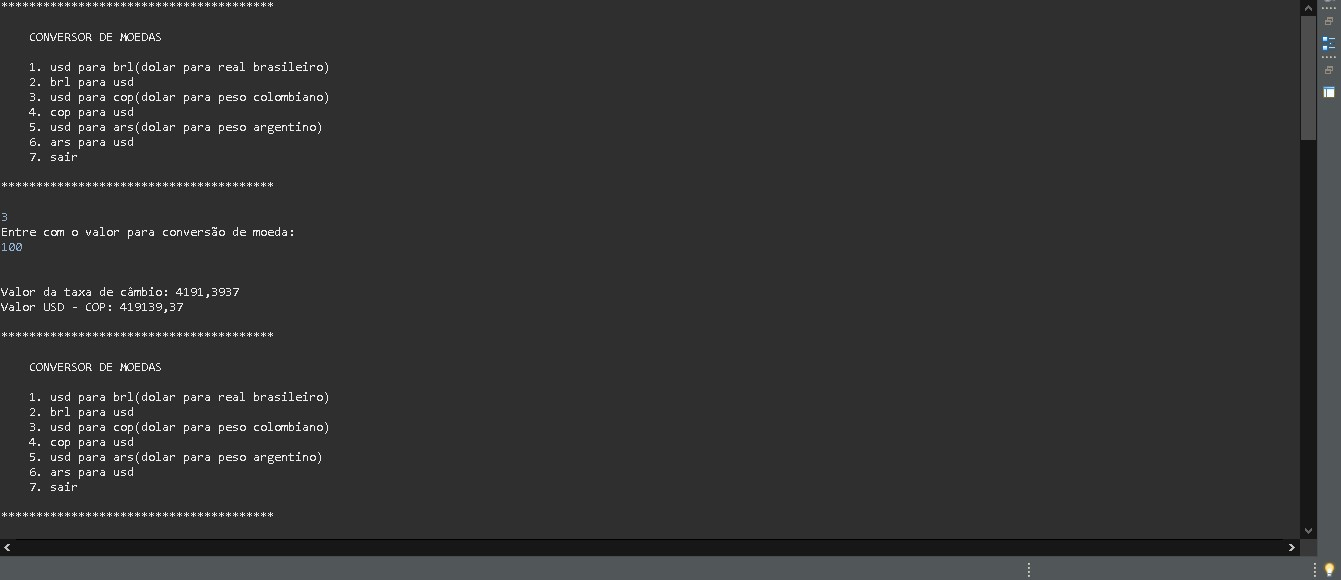
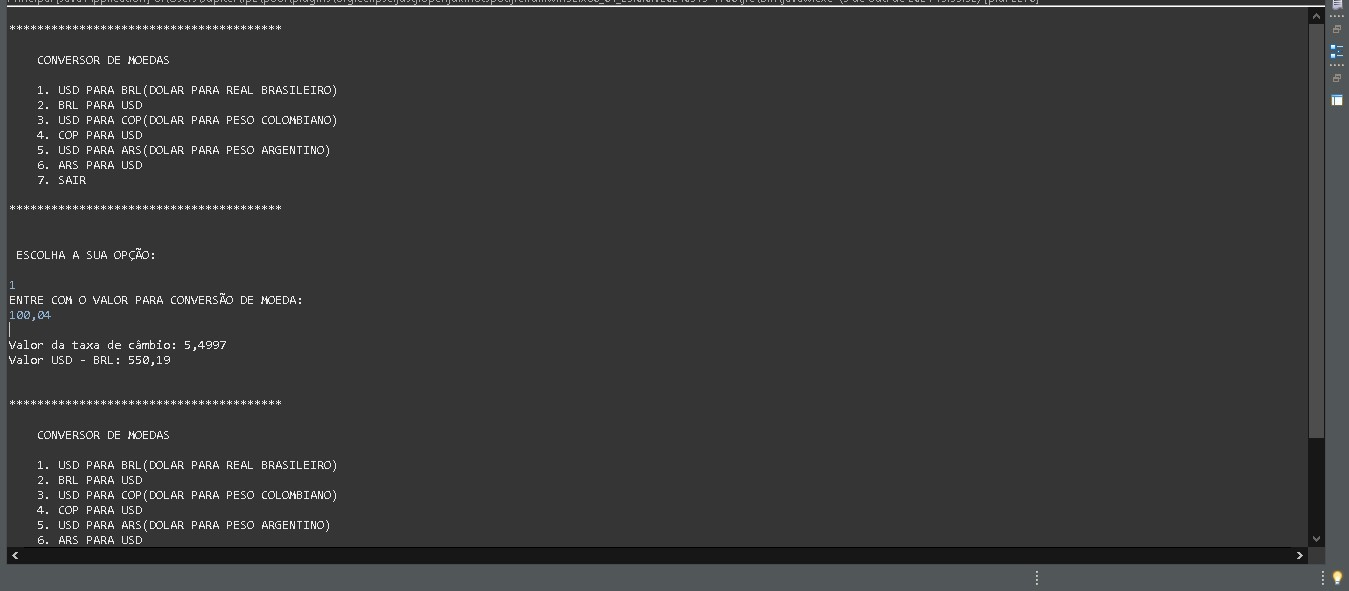
Atualização do projeto conversor de moedas

Changed region(s): [[0.0, 0.0, 1.0, 0.9621], [0.9478, 0.2483, 1.0, 0.7448], [0.9784, 0.9621, 1.0, 0.9931]]

diff --git a/projetosJava/com.samzubeli.ConversorDeMoedas/src/com/samzubeli/ConversorDeMoedas/principal/Principal.java b/projetosJava/com.samzubeli.ConversorDeMoedas/src/com/samzubeli/ConversorDeMoedas/principal/Principal.java
@@ -1,104 +1,91 @@
 package com.samzubeli.ConversorDeMoedas.principal;
 
-import java.util.Scanner;
-
 import com.samzubeli.ConversorDeMoedas.api.Conexao;
 import com.samzubeli.ConversorDeMoedas.api.Utilidades;
 
 public class Principal {
 
-	public static void main(String[] args) {
-		Scanner lerEntrada = new Scanner(System.in);
+	public static void main(String[] args) {	;
 		Conexao con = new Conexao();
 		Utilidades util = new Utilidades();
 		while (true) {
-			System.out.println("***************************************\n");
+			System.out.println("\n***************************************\n");
 			System.out.println("    conversor de moedas".toUpperCase());
 			System.out.println();
-			System.out.println("    1. usd para brl(dolar para real brasileiro)".toLowerCase());
-			System.out.println("    2. brl para usd".toLowerCase());
-			System.out.println("    3. usd para cop(dolar para peso colombiano)".toLowerCase());
-			System.out.println("    4. cop para usd".toLowerCase());
-			System.out.println("    5. usd para ars(dolar para peso argentino)".toLowerCase());
-			System.out.println("    6. ars para usd".toLowerCase());
-			System.out.println("    7. sair\n".toLowerCase());
-			System.out.println("***************************************\n");
-			int valor = lerEntrada.nextInt();
+			System.out.println("    1. usd para brl(dolar para real brasileiro)".toUpperCase());
+			System.out.println("    2. brl para usd".toUpperCase());
+			System.out.println("    3. usd para cop(dolar para peso colombiano)".toUpperCase());
+			System.out.println("    4. cop para usd".toUpperCase());
+			System.out.println("    5. usd para ars(dolar para peso argentino)".toUpperCase());
+			System.out.println("    6. ars para usd".toUpperCase());
+			System.out.println("    7. sair\n".toUpperCase());
+			System.out.println("***************************************\n");			
+			int valor = (int) util.entradaDeValores(false);			
 			if (valor == 7)
 				break;
-			if (util.verificarEntrada(valor))
-				System.out.println("\nsomente numeros entre 1 e 7\n".toUpperCase());
-			else {
-				String key = "";
-				String parMoedas = "";
-				double moeda = 0.0;
-				double taxaCambio = 0.0;
+			String key = "";
+			String parMoedas = "";
+			double moeda = 0.0;
+			double taxaCambio = 0.0;
 
-				switch (valor) {
+			switch (valor) {
 
-				case 1:
-					key = "YOUR-API-KEY/pair/USD/BRL";
-					parMoedas = " usd - brl: ".toUpperCase();
-					System.out.println("Entre com o valor para conversão de moeda: ");
-					moeda = lerEntrada.nextDouble();
-					taxaCambio = util.obterTaxaDeCambio(con, key);
-					moeda = moeda * taxaCambio;
-					util.imprimirValores(parMoedas, moeda, taxaCambio);
-					break;
+			case 1:
+				key = "6f7d444c2c79803d656753f8/pair/USD/BRL";
+				parMoedas = " usd - brl: ".toUpperCase();
+				moeda = util.entradaDeValores(true);				
+				taxaCambio = util.obterTaxaDeCambio(con, key);
+				moeda = moeda * taxaCambio;
+				util.imprimirValores(parMoedas, moeda, taxaCambio);
+				break;
 
-				case 2:
-					key = "YOUR-API-KEY/pair/USD/BRL";
-					parMoedas = " brl - usd: ".toUpperCase();
-					System.out.println("Entre com o valor para conversão de moeda: ");
-					moeda = lerEntrada.nextDouble();
-					taxaCambio = util.obterTaxaDeCambio(con, key);
-					moeda = moeda / taxaCambio;
-					util.imprimirValores(parMoedas, moeda, taxaCambio);
-					break;
+			case 2:
+				key = "6f7d444c2c79803d656753f8/pair/USD/BRL";
+				parMoedas = " brl - usd: ".toUpperCase();
+				moeda = util.entradaDeValores(true);								
+				taxaCambio = util.obterTaxaDeCambio(con, key);
+				moeda = moeda / taxaCambio;
+				util.imprimirValores(parMoedas, moeda, taxaCambio);
+				break;
 
-				case 3:
-					key = "YOUR-API-KEY/pair/USD/COP";
-					parMoedas = " usd - cop: ".toUpperCase();
-					System.out.println("Entre com o valor para conversão de moeda: ");
-					moeda = lerEntrada.nextDouble();
-					taxaCambio = util.obterTaxaDeCambio(con, key);
-					moeda = moeda * taxaCambio;
-					util.imprimirValores(parMoedas, moeda, taxaCambio);
-					break;
+			case 3:
+				key = "6f7d444c2c79803d656753f8/pair/USD/COP";
+				parMoedas = " usd - cop: ".toUpperCase();
+				moeda = util.entradaDeValores(true);								
+				taxaCambio = util.obterTaxaDeCambio(con, key);
+				moeda = moeda * taxaCambio;
+				util.imprimirValores(parMoedas, moeda, taxaCambio);
+				break;
 
-				case 4:
-					key = "YOUR-API-KEY/pair/USD/COP";
-					parMoedas = " cop - usd: ".toUpperCase();
-					System.out.println("Entre com o valor para conversão de moeda: ");
-					moeda = lerEntrada.nextDouble();
-					taxaCambio = util.obterTaxaDeCambio(con, key);
-					moeda = moeda / taxaCambio;
-					util.imprimirValores(parMoedas, moeda, taxaCambio);
-					break;
+			case 4:
+				key = "6f7d444c2c79803d656753f8/pair/USD/COP";
+				parMoedas = " cop - usd: ".toUpperCase();
+				moeda = util.entradaDeValores(true);								
+				taxaCambio = util.obterTaxaDeCambio(con, key);
+				moeda = moeda / taxaCambio;
+				util.imprimirValores(parMoedas, moeda, taxaCambio);
+				break;
 
-				case 5:
-					key = "YOUR-API-KEY/pair/USD/ARS";
-					parMoedas = " usd - ars: ".toUpperCase();
-					System.out.println("Entre com o valor para conversão de moeda: ");
-					moeda = lerEntrada.nextDouble();
-					taxaCambio = util.obterTaxaDeCambio(con, key);
-					moeda = moeda * taxaCambio;
-					util.imprimirValores(parMoedas, moeda, taxaCambio);
-					break;
+			case 5:
+				key = "6f7d444c2c79803d656753f8/pair/USD/ARS";
+				parMoedas = " usd - ars: ".toUpperCase();
+				moeda = util.entradaDeValores(true);								
+				taxaCambio = util.obterTaxaDeCambio(con, key);
+				moeda = moeda * taxaCambio;
+				util.imprimirValores(parMoedas, moeda, taxaCambio);
+				break;
 
-				case 6:
-					key = "YOUR-API-KEY/pair/USD/ARS";
-					parMoedas = " ars - usd: ".toUpperCase();
-					System.out.println("Entre com o valor para conversão de moeda: ");
-					moeda = lerEntrada.nextDouble();
-					taxaCambio = util.obterTaxaDeCambio(con, key);
-					moeda = moeda / taxaCambio;
-					util.imprimirValores(parMoedas, moeda, taxaCambio);
-					break;
-				}
+			case 6:
+				key = "6f7d444c2c79803d656753f8/pair/USD/ARS";
+				parMoedas = " ars - usd: ".toUpperCase();
+				moeda = util.entradaDeValores(true);								
+				taxaCambio = util.obterTaxaDeCambio(con, key);
+				moeda = moeda / taxaCambio;
+				util.imprimirValores(parMoedas, moeda, taxaCambio);
+				break;
 			}
-		}
-		lerEntrada.close();
+
+		}		
 		System.out.println("\n\n terminou seu programa".toUpperCase());
 	}
 

diff --git a/projetosJava/com.samzubeli.ConversorDeMoedas/src/com/samzubeli/ConversorDeMoedas/api/Utilidades.java b/projetosJava/com.samzubeli.ConversorDeMoedas/src/com/samzubeli/ConversorDeMoedas/api/Utilidades.java
@@ -1,6 +1,9 @@
 package com.samzubeli.ConversorDeMoedas.api;
 
 import java.text.DecimalFormat;
+import java.util.Arrays;
+import java.util.InputMismatchException;
+import java.util.Scanner;
 
 public class Utilidades {
 
@@ -12,17 +15,77 @@ public class Utilidades {
 	}
 
 	public double obterTaxaDeCambio(Conexao con, String key) {
+		// System.out.println(con.conectar(key));
 		String bodyJson = con.conectar(key);
 		String str = bodyJson.substring(bodyJson.indexOf("{") + 1, bodyJson.lastIndexOf("}"));
+		// System.out.println();
+		// System.out.println("str: "+str);
 		String[] array = str.split(":");
 		return Double.parseDouble(array[array.length - 1]);
+		// System.out.println();
+		// System.out.println(Arrays.toString(array));
+		// System.out.println();
+		// System.out.println("Valor da taxa de
+		// câmbio"+parMoedas+array[array.length-1]);
+		// System.out.println("Valor"+parMoedas+moeda*Double.parseDouble(array[array.length-1]));
+		// System.out.println("\n");
+
 	}
 
 	public void imprimirValores(String parMoedas, double moeda, double taxaCambio) {
-		DecimalFormat f = new DecimalFormat("###.####");
-		System.out.println();
-		System.out.println("Valor da taxa de câmbio: " + f.format(taxaCambio));
-		System.out.println("Valor" + parMoedas + f.format(moeda));
-		System.out.println();
+		if (moeda > 0) {
+			DecimalFormat f = new DecimalFormat("###.####");
+			System.out.println();
+			System.out.println("Valor da taxa de câmbio: " + f.format(taxaCambio));
+			System.out.println("Valor" + parMoedas + f.format(moeda));
+			System.out.println();
+		}
+	}
+
+	public double entradaDeValores(boolean entrada) {
+		Scanner ler = new Scanner(System.in);
+		if (entrada) {
+			try {
+				System.out.println("Entre com o valor para conversão de moeda: ".toUpperCase());
+				double moeda = ler.nextDouble();
+				if (!(moeda > 0)) {
+					System.out.println(
+							">>>>>>>>>>>>  somente valores maiores que zero são aceitos  <<<<<<<<<<<<<"
+									.toUpperCase());
+					return 0;
+				}
+				return moeda;
+			} catch (InputMismatchException e) {
+				System.out.println();
+				System.out.println();
+				System.out.println(">>>>>>>>>>>>  somente valores numéricos são aceitos  <<<<<<<<<<<<<"
+						.toUpperCase());
+				System.out.println();
+				System.out.println();
+			}
+
+			return 0;
+		}
+
+		try {
+			System.out.println("\n escolha a sua opção: \n".toUpperCase());
+			int valor = ler.nextInt();
+			if (!(valor > 0 & valor < 8)) {
+				System.out.println(
+						"\n >>>>>>>>>>>>>  somente valores inteiros entre 1 e 7 são aceitos  <<<<<<<<<<<<<\n"
+								.toUpperCase());
+				return 0;
+			}
+			return valor;
+		} catch (InputMismatchException e) {
+			System.out.println();
+			System.out.println();
+			System.out.println(
+					">>>>>>>>>>>>  somente valores numéricos são aceitos   <<<<<<<<<<<<".toUpperCase());
+			System.out.println();
+			System.out.println();
+		}
+		return 0;
+
 	}
 }

diff --git a/projetosJava/com.samzubeli.ConversorDeMoedas/src/com/samzubeli/ConversorDeMoedas/api/Conexao.java b/projetosJava/com.samzubeli.ConversorDeMoedas/src/com/samzubeli/ConversorDeMoedas/api/Conexao.java
@@ -15,30 +15,31 @@ public class Conexao {
 			url = url.concat(key);
 			HttpClient client = HttpClient.newHttpClient();
 			HttpRequest request = HttpRequest.newBuilder().uri(URI.create(url)).GET().build();
-			// Envio da requisição e obter a resposta.
+			// Envio da requisição e obter a resposta. 
 			HttpResponse<String> resposta = client.send(request, BodyHandlers.ofString());
-
+			
 			return resposta.body();
-
+			
 		} catch (IOException | InterruptedException e) {
 			System.out.println("Houve um erro de comunicacao com a API WEB");
 			System.out.println(e.getMessage());
 			throw new RuntimeException(e);
 		}
-
+		
 	}
 }
 
 /*
  * https://v6.exchangerate-api.com/v6/YOUR-API-KEY/pair/EUR/GBP -> devolve no
- * json a taxa de câmbio.
+ * json a taxa de câmbio
  * 
- * EUR -> moeda base. USD -> moeda alvo. "YOUR-API-KEY/pair/EUR/GBP" ou
- * "YOUR-API-KEY/pair/EUR/GBP/AMOUNT"
+ * EUR -> moeda base USD -> moeda alvo key =
+ * "6f7d444c2c79803d656753f8/pair/EUR/GBP" ou
+ * "6f7d444c2c79803d656753f8/pair/EUR/GBP/AMOUNT"
  * 
  * GET https://v6.exchangerate-api.com/v6/YOUR-API-KEY/pair/EUR/GBP/AMOUNT ->
  * devolve no json moeda alvo já convertida.
  * 
- * Ex: https://v6.exchangerate-api.com/v6/YOUR-API-KEY/latest/USD -> devolve
- * todas moedas convertidas em relação ao dollar.
+ * Ex: https://v6.exchangerate-api.com/v6/6f7d444c2c79803d656753f8/latest/USD ->
+ * devolve todas moedas convertidas em relação ao dollar.
  */

diff --git a/projetosJava/com.samzubeli.ConversorDeMoedas/readme.md b/projetosJava/com.samzubeli.ConversorDeMoedas/readme.md
@@ -1,20 +1,43 @@
 ## Telas do Projeto  
 
-![Alt text](img/tela-1.jpg) 
-
+![Alt text](img/tela-1.jpg)   
   
 
-![Alt text](img/tela-2.jpg)  
-
+![Alt text](img/tela-2.jpg) 
    
 
-![Alt text](img/tela-3.jpg)   
-
+![Alt text](img/tela-3.jpg) 
   
 
 ![Alt text](img/tela-4.jpg)   
-
  
 
-![Alt text](img/tela-5.jpg)  
+![Alt text](img/tela-5.jpg)   
+
+
+![Alt text](img/tela-6.jpg)   
+
+
+![Alt text](img/tela-7.jpg)  
+
+
+![Alt text](img/tela-8.jpg)  
+
+
+![Alt text](img/tela-9.jpg)   
+
+
+![Alt text](img/tela-10.jpg)  
+
+
+![Alt text](img/tela-11.jpg)  
+
+
+![Alt text](img/tela-12.jpg)  
+
+
+![Alt text](img/tela-13.jpg)  
+
+
+
 
